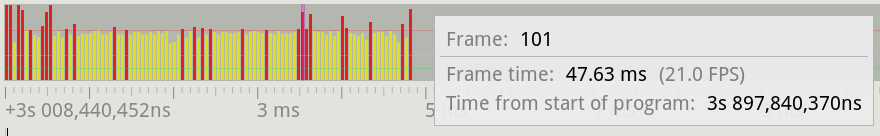
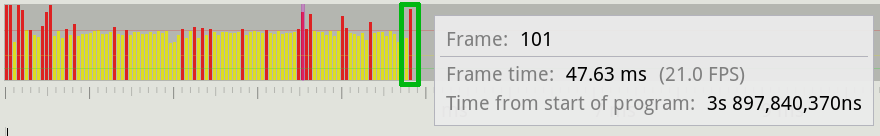
Added test system details, improved frame timeline picture

diff --git a/chapters/8-Overview-Of-Performance-Analysis-Tools/8-7 Tracy.md b/chapters/8-Overview-Of-Performance-Analysis-Tools/8-7 Tracy.md
@@ -2,7 +2,7 @@
 
 Most of the tools explored so far fall under the category of sampling profilers. These are great when you want to identify hot-spots in your code, but in some cases they might not provide enough granularity for analysis. Depending on the profiler sampling frequency and the behavior of your program, most functions could be fast enough that they don't show up in a profiler. In some scenarios you might want to manually define which parts of your program need to be measured consistently. Video games, for instance, render frames (the final image shown on screen) on average at 60 frames per second (FPS); some monitors allow up to 144 FPS. At 60 FPS, each frame has as little as 16 milliseconds to complete the work before moving on to the next one. Developers pay particular attention to frames that go above this threshold, as this causes visible stutter in games and can ruin the player experience. This situation is hard to capture with a sampling profiler, as they usually only provide the total time taken for a given function.
 
-Developers have created profilers that provide features helpful in specific environments, usually with a marker API that you can use to manually instrument your code. This allows you to observe performance of a particular function or a block of code (later refered as a *zone*). Continuing with the game industry, there are a few tools in this space: some are integrated directly into game engines like Unreal, while others are provided as external libraries and tools that can be integrated into your project. Some of the most commonly used profilers are [Tracy](https://github.com/wolfpld/tracy), RAD Telemetry, [Remotery](https://github.com/Celtoys/Remotery), and [Optick](https://github.com/bombomby/optick) (Windows only). Next, we showcase Tracy, as this seems to be one the more popular projects, however these concepts apply to the other profilers as well. 
+Developers have created profilers that provide features helpful in specific environments, usually with a marker API that you can use to manually instrument your code. This allows you to observe performance of a particular function or a block of code (later refered as a *zone*). Continuing with the game industry, there are a few tools in this space: some are integrated directly into game engines like Unreal, while others are provided as external libraries and tools that can be integrated into your project. Some of the most commonly used profilers are [Tracy](https://github.com/wolfpld/tracy), RAD Telemetry, [Remotery](https://github.com/Celtoys/Remotery), and [Optick](https://github.com/bombomby/optick) (Windows only). Next, we showcase Tracy, as this seems to be one the more popular projects, however these concepts apply to the other profilers as well.
 
 ### What you can do with Tracy: {.unlisted .unnumbered}
 
@@ -45,15 +45,15 @@ void RenderFrame() {
 }
 ~~~~~~~~~~~~~~~~~~~~~~~~~~~~~~~~~~~~~~~~~~~~~~~~~
 
-Each frame can contain many zones, designated by the `ZoneScoped` macro. Similar to frames, there are many instances of a zone. Every time we enter a zone, Tracy captures statistics for a new instance of that zone. The `ZoneScoped` macro creates an object on the stack that will record the runtime activity of the code within the scope of the object. Tracy refers to this scope as a "zone". At the zone entry, the current timestamp is captured. Once the function exits, the object will record a new timestamp and will store this timing data, along with the function name. 
+Each frame can contain many zones, designated by the `ZoneScoped` macro. Similar to frames, there are many instances of a zone. Every time we enter a zone, Tracy captures statistics for a new instance of that zone. The `ZoneScoped` macro creates an object on the stack that will record the runtime activity of the code within the scope of the object. Tracy refers to this scope as a "zone". At the zone entry, the current timestamp is captured. Once the function exits, the object will record a new timestamp and will store this timing data, along with the function name.
 
 Tracy has two operation modes: it can store all the timing data until the profiler is connected to the application (the default mode), or it can only start recording when a profiler is connected. The latter option can be enabled by specifying the `TRACY_ON_DEMAND` pre-processor macro when compiling the application. This mode should be preferred if you want to distribute an application that can be profiled as needed. With this option, the tracing code can be compiled into the application and it will cause little to no overhead to the running program unless the profiler is attached. The profiler is a separate application that connects to a running application to capture and display the live profiling data, aka the "flight recorder" mode. The profiler can be run on a separate machine so that it doesn't interfere with the running application. Note, however, that this doesn't mean that the runtime overhead caused by the instrumentation code disappears - it is still there, but the overhead of visualizing the data is avoided in this case.
 
-We used Tracy to debug the program and find the reason why some frames are slower than others. Tracy graphical interface is quite rich, unfortunately too hard to fit on a single screenshot, so we break it down into pieces. At the top, there is a timeline view as shown on figure @fig:Tracy_Main_View, cropped to fit onto the page. It shows only a portion of the frame #76, which took 44.1 ms to render. On that diagram, we see the `Main thread` and five `WorkerThread`s that were active during that frame. All threads, including the main thread, are performing work to advance progress in rendering the final image. As we said earlier, each thread processes a row of pixels inside the `TraceRowJob` zone. Each `TraceRowJob` zone instance contains many smaller zones, that are not visible. Tracy collapses inner zones and only shows the number of collapsed instances - this is what, for example, number `4,109` means under the first `TraceRowJob` in the Main Thread. Notice the instances of `DoExtraWork` zones, nested under `TraceRowJob` zones. This observation already can lead to a discovery, but in the real application it may not be so obvious. Let's leave this for now.
+We used Tracy to debug the program and find the reason why some frames are slower than others. The data was captured on a Windows 11 machine, equipped with a Ryzen 7 5800X processor. The program was compiled with MSVC 19.36.32532. Tracy graphical interface is quite rich, unfortunately too hard to fit on a single screenshot, so we break it down into pieces. At the top, there is a timeline view as shown on figure @fig:Tracy_Main_View, cropped to fit onto the page. It shows only a portion of the frame #76, which took 44.1 ms to render. On that diagram, we see the `Main thread` and five `WorkerThread`s that were active during that frame. All threads, including the main thread, are performing work to advance progress in rendering the final image. As we said earlier, each thread processes a row of pixels inside the `TraceRowJob` zone. Each `TraceRowJob` zone instance contains many smaller zones, that are not visible. Tracy collapses inner zones and only shows the number of collapsed instances - this is what, for example, number `4,109` means under the first `TraceRowJob` in the Main Thread. Notice the instances of `DoExtraWork` zones, nested under `TraceRowJob` zones. This observation already can lead to a discovery, but in the real application it may not be so obvious. Let's leave this for now.
 
 ![Tracy main timeline view.](../../img/perf-tools/tracy/tracy_main_timeline.png){#fig:Tracy_Main_View width=100%}
 
-Right above the main panel, there is a histogram that displays the times for all the recorded frames, see figure @fig:Tracy_Frame_Time_View. It makes it easier to spot a long running frame that could cause stutter. It makes it easier to spot those frames that took longer than average to complete. In this example, most frames take around 33 ms (the yellow bars). However there are some frames that take longer than this and are marked in red. As seen on the screenshot, a tooltip showing the details of a given frame is displayed when hovering the mouse on the bar in the histogram.
+Right above the main panel, there is a histogram that displays the times for all the recorded frames, see figure @fig:Tracy_Frame_Time_View. It makes it easier to spot a long running frame that could cause stutter. It makes it easier to spot those frames that took longer than average to complete. In this example, most frames take around 33 ms (the yellow bars). However there are some frames that take longer than this and are marked in red. As seen on the screenshot, a tooltip showing the details of a given frame is displayed when hovering the mouse on the bar in the histogram. In this example, we are showing the details for the last frame, highlighted in green.
 
 ![Tracy frame timings.](../../img/perf-tools/tracy/tracy_frame_view.png){#fig:Tracy_Frame_Time_View width=90%}
 
@@ -65,7 +65,7 @@ Next comes the panel that provides information on where our program spends its t
 
 ![Tracy function statistics.](../../img/perf-tools/tracy/tracy_hotspots.png){#fig:Tracy_Hotspots width=100%}
 
-The last set of panels that we show, allow us to analyze individual zone instances in more depth. Once you click on any zone instance, say, on the main timeline view or on CPU data view, Tracy will open a Zone Info window (see figure @fig:Tracy_Zone_Details, the left panel) with the details for this zone instance. It tells how much of the execution time is consumed by the zone itself or its children. In this example, execution of the `TraceRowJob` function took 19.24 ms, but the time consumed by the function itself without its callees takes 1.36 ms, which is only 7%. The rest of the time is consumed by the child zones. 
+The last set of panels that we show, allow us to analyze individual zone instances in more depth. Once you click on any zone instance, say, on the main timeline view or on CPU data view, Tracy will open a Zone Info window (see figure @fig:Tracy_Zone_Details, the left panel) with the details for this zone instance. It tells how much of the execution time is consumed by the zone itself or its children. In this example, execution of the `TraceRowJob` function took 19.24 ms, but the time consumed by the function itself without its callees takes 1.36 ms, which is only 7%. The rest of the time is consumed by the child zones.
 
 It's easy to spot a call to `DoExtraWork` that takes the bulk of the time, 16.99 ms out 19.24 ms. Notice that this particular `TraceRowJob` instance runs 4.4 times longer than the average case (find "437.93% of the mean time" on the image). Bingo! We found one of the slow instances where `TraceRowJob` function was slowed down because of some extra work. One way to proceed would be to click on the `DoExtraWork` row to inspect this zone instance. This will update the Zone Info view with the details of the `DoExtraWork` instance so that we can dig down to understand what caused the performance issue. This view also shows the source file and line of code where the zone starts. So, another strategy would be to check the source code to understand why the current `TraceRowJob` instance takes more time than usual.
 
